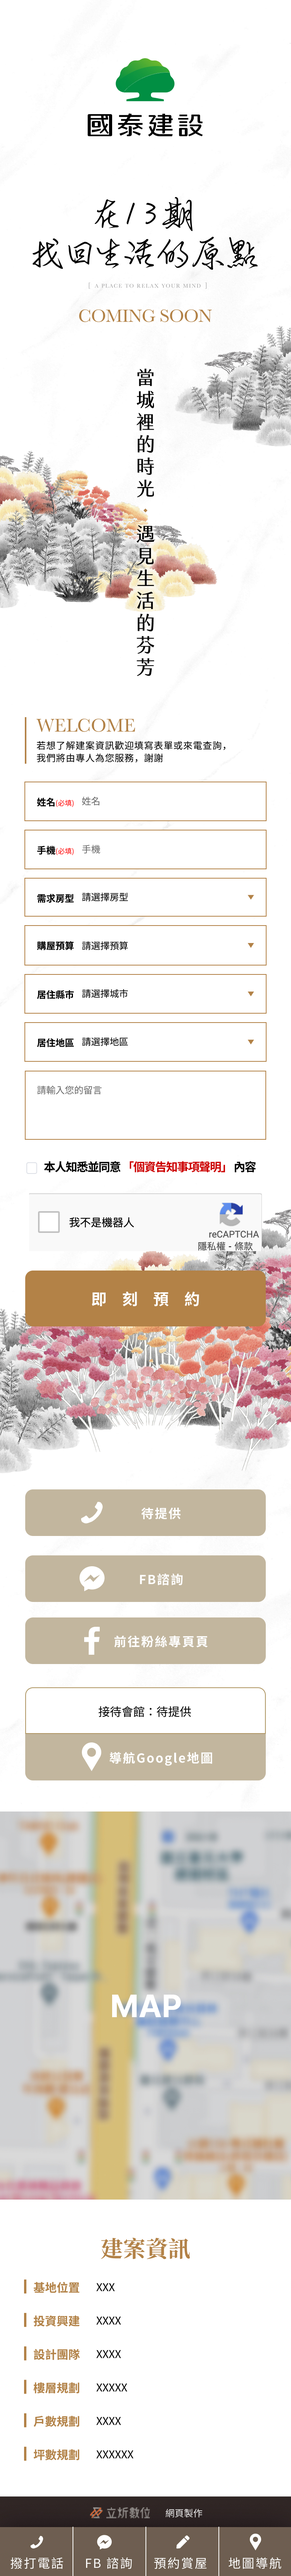
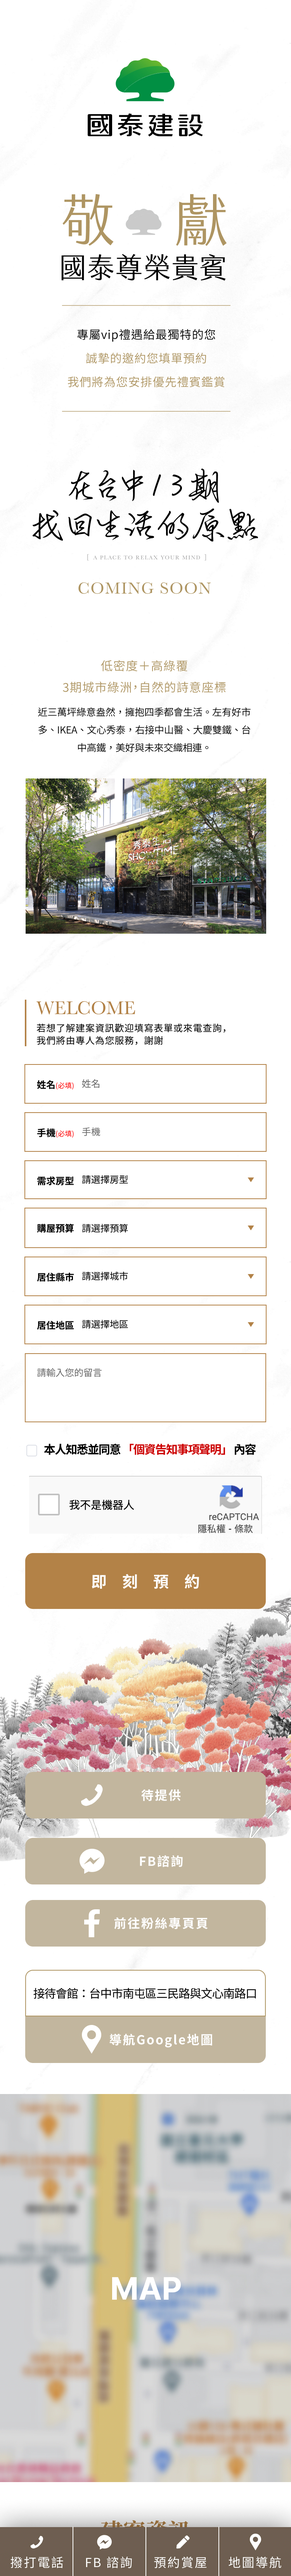
0

diff --git a/src/section/s1.vue b/src/section/s1.vue
@@ -1,6 +1,6 @@
 <template>
   <article class="s1">
-    <img src="./s1/pc.jpg" class="t0" />
+    <img src="./s1/mo.jpg" class="t0" />
     <div class="relative z-10 flex flex-col items-center justify-center">
     <img class="cathayredlogo" src="./s1/cathayredlogo.svg" alt="國泰建設logo" data-aos="zoom-in" data-aos-delay="0" />
     <img class="t21" src="./s1/t21.svg" alt="敬獻尊榮貴賓" data-aos="zoom-in" data-aos-delay="200" />
@@ -52,10 +52,10 @@
 
     <!-- <img class="t4" src="./s1/t4.svg" alt="當城裡的時光遇見生活的芬芳" data-aos="zoom-in" data-aos-delay="800" /> -->
   </div>
-  <div class="tree1 absolute" data-aos="fade-left" data-aos-delay="800" data-aos-duration="6000">
+  <div class="tree1 absolute" data-aos="fade-left" data-aos-delay="800" data-aos-duration="6000" v-if="!isMobile">
     <img src="@/section/s1/tree.webp" alt="" srcset="">
   </div>
-  <div class="tree2 absolute" data-aos="fade-right" data-aos-delay="1200" data-aos-duration="6000">
+  <div class="tree2 absolute" data-aos="fade-right" data-aos-delay="1200" data-aos-duration="6000" v-if="!isMobile">
     <img src="@/section/s1/tree.webp" alt="" srcset="">
   </div>
 
@@ -82,8 +82,8 @@
     }
   }
   .t21{
-    width: sizem(280);
-    margin: sizem(77) auto 0 auto;
+    width: sizem(218);
+    margin: sizem(74) auto sizem(29) auto;
     @media screen and (min-width: 768px) {
       width: size(414);
       margin: size(130) auto size(60) auto;
@@ -94,13 +94,14 @@
     padding: 1.35em .5em;
     border-top: 1px solid currentColor;
     border-bottom: 1px solid currentColor;
-    font-size: size(30);letter-spacing: 0.01em;
+    font-size: sizem(15.5);letter-spacing: 0.01em;
     line-height: 2;
   span{display: block;}
+  @media screen and (min-width: 768px) {font-size: size(30);}
   }
   .t1{
     width: sizem(290);
-    margin: sizem(77) auto 0 auto;
+    margin: sizem(73) auto 0 auto;
     @media screen and (min-width: 768px) {
       width: size(565);
       margin: size(145) auto 0 auto;
@@ -116,7 +117,7 @@
   }
   .t3{
     width: sizem(170);
-    margin: sizem(26) auto sizem(0) auto;
+    margin: sizem(26) auto sizem(75) auto;
     @media screen and (min-width: 768px) {
       width: size(330);
       margin: size(50) auto size(145) auto;
@@ -125,15 +126,19 @@
   .t23{
     color:#000;text-align: center;
     padding: 0;
-    font-size: size(24);letter-spacing: 0.01em;
+    font-size: sizem(13);letter-spacing: 0.01em;
     line-height: 2;
     width: 24em;
     .sp1{ color: #AE9562;font-size: 1.25em;line-height: 1.9;}
   span{display: block;}
+  @media screen and (min-width: 768px) {font-size: size(24);}
   }
   .swiper-box {
     margin: size(90) auto size(45) auto;
     width: size(1710);
+    @media screen and (min-width: 768px) {
+    margin: size(90) auto size(45) auto;
+    width: size(1710);}
     .slide {
       .slide-item {position: relative;
         height: size(355);

diff --git a/src/section/order copy.vue b/src/section/order copy.vue
@@ -41,7 +41,7 @@
               ></option>
             </select>
           </label>
-          <label class="row name"
+          <label class="row"
             ><span>貴賓姓名<span>(必填)</span></span>
             <input
               type="text"
@@ -50,12 +50,6 @@
               :value="formData.name"
               @input="(event) => (formData.name = event.target.value)"
           /></label>
-           <!--    --><div class="gender">
-          <label><input  type="radio" name="gender" value="男" 
-              @input="(event) => (formData.gender = event.target.value)">先生</label>
-          <label><input  type="radio" name="gender" value="女" 
-              @input="(event) => (formData.gender = event.target.value)">女士</label>
-        </div>
           <label class="row"
             ><span>連絡電話<span>(必填)</span></span>
             <input
@@ -175,7 +169,7 @@ display: block;
 background: #fffc;
 top: 5rem;
 left: 0;right: 0;
-height: 48rem;position: absolute;margin: auto;
+height: 51rem;position: absolute;margin: auto;
 width: size(1100);
 min-width: 950px;
 border-radius: 5rem;
@@ -252,10 +246,9 @@ box-shadow:0 40px 40px -15px #0009;
     min-width: 750px;
     flex-wrap: wrap;
 
-    .left {position: relative;
+    .left {
       flex: 1;
       gap: size(20);
-      align-items: flex-start;
       //   width: size(419);
     }
 
@@ -316,15 +309,6 @@ box-shadow:0 40px 40px -15px #0009;
       textarea {
         @apply text-[#231815];
       }
-      //有性別時這格開啟
-      &.name{width: calc(100% - 3.8em);
-      // .input{height: 5em;}
-      }
-    }
-    .gender{display: flex;position: absolute;right: 0;top: 5em;
-      flex-direction:column;color: #a67c52;
-      label:first-child{margin-bottom: .3em;}
-      input{margin-right: .3em;}
     }
   }
   .form-send {

diff --git a/src/info/index.js b/src/info/index.js
@@ -6,9 +6,9 @@ export default {
     description: caseName,
     keywords: caseName,
   },
-  address1: "接待中心", //按鈕區的--- 如空白會只呈現地址
-  address2: "接待中心", //map點下確認的--- 如空白會顯示"導航地址"
-  // address: "待提供",
+  address1: "接待會館", //按鈕區的--- 如空白會只呈現地址
+  address2: "接待會館", //map點下確認的--- 如空白會顯示"導航地址"
+  address: "台中市南屯區三民路與文心南路口",
   googleSrc:
     "https://www.google.com/maps/embed?pb=!1m18!1m12!1m3!1d3640.8306269183545!2d120.6674858!3d24.1425856!2m3!1f0!2f0!3f0!3m2!1i1024!2i768!4f13.1!3m3!1m2!1s0x34693d0ed9a2796b%3A0x4acf8c43e71cdd1a!2z6bqX5pmo5bu66Kit!5e0!3m2!1szh-TW!2stw!4v1733905506117!5m2!1szh-TW!2stw",
   googleLink: "https://maps.app.goo.gl/t1HoEMUrd7NvPAfXA",
